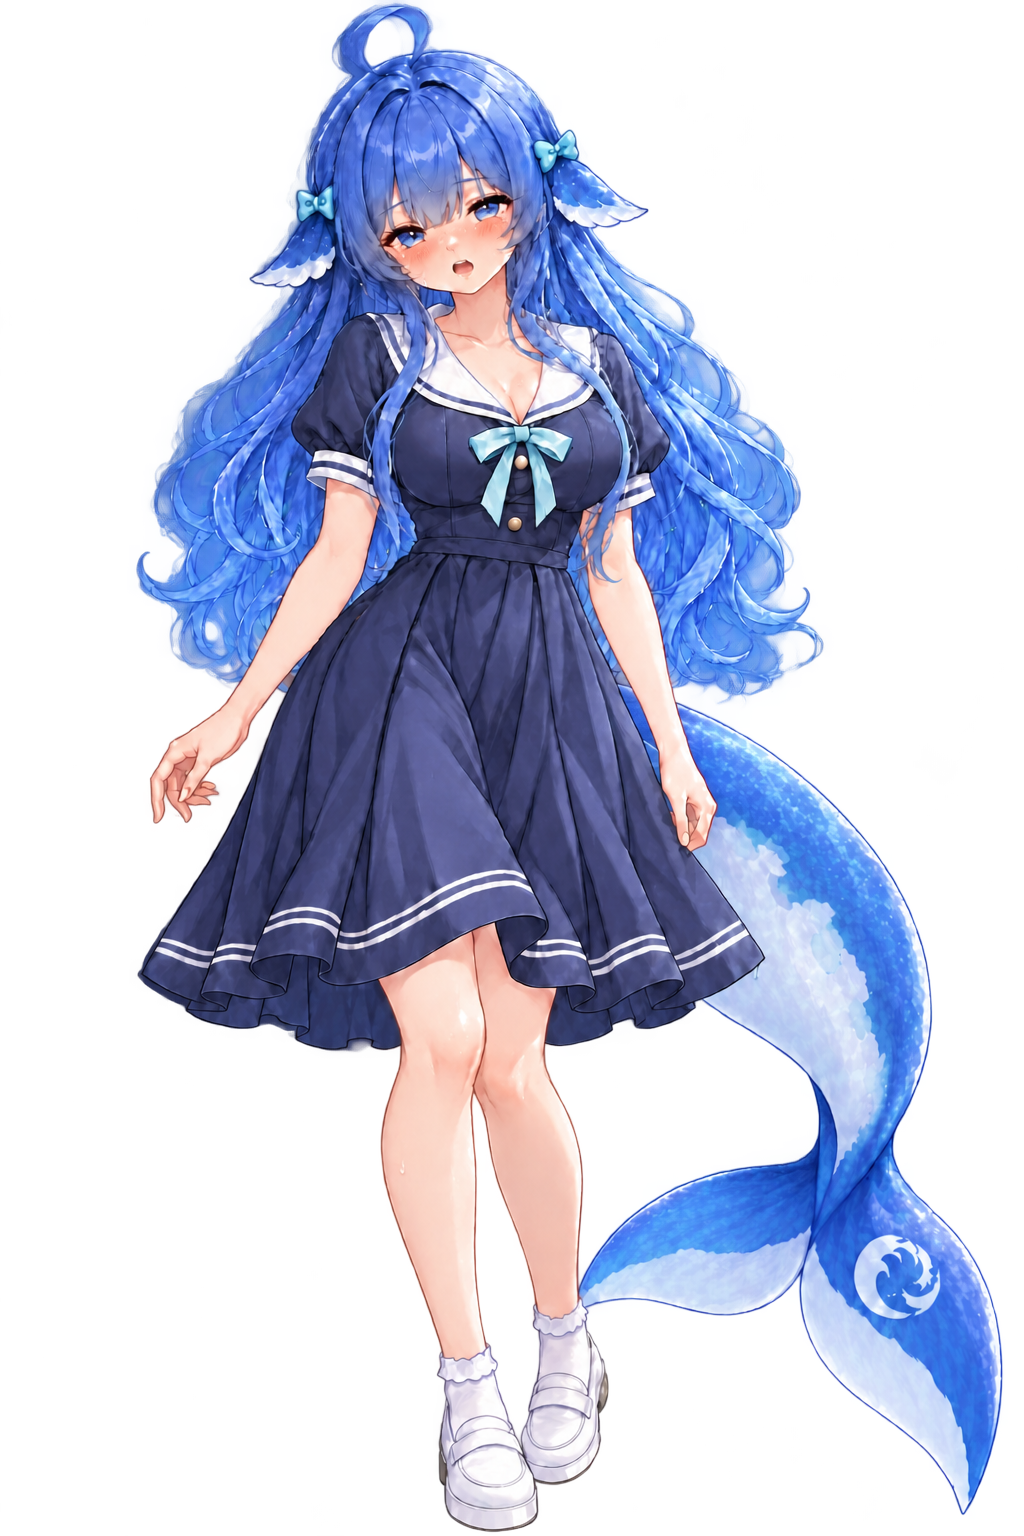
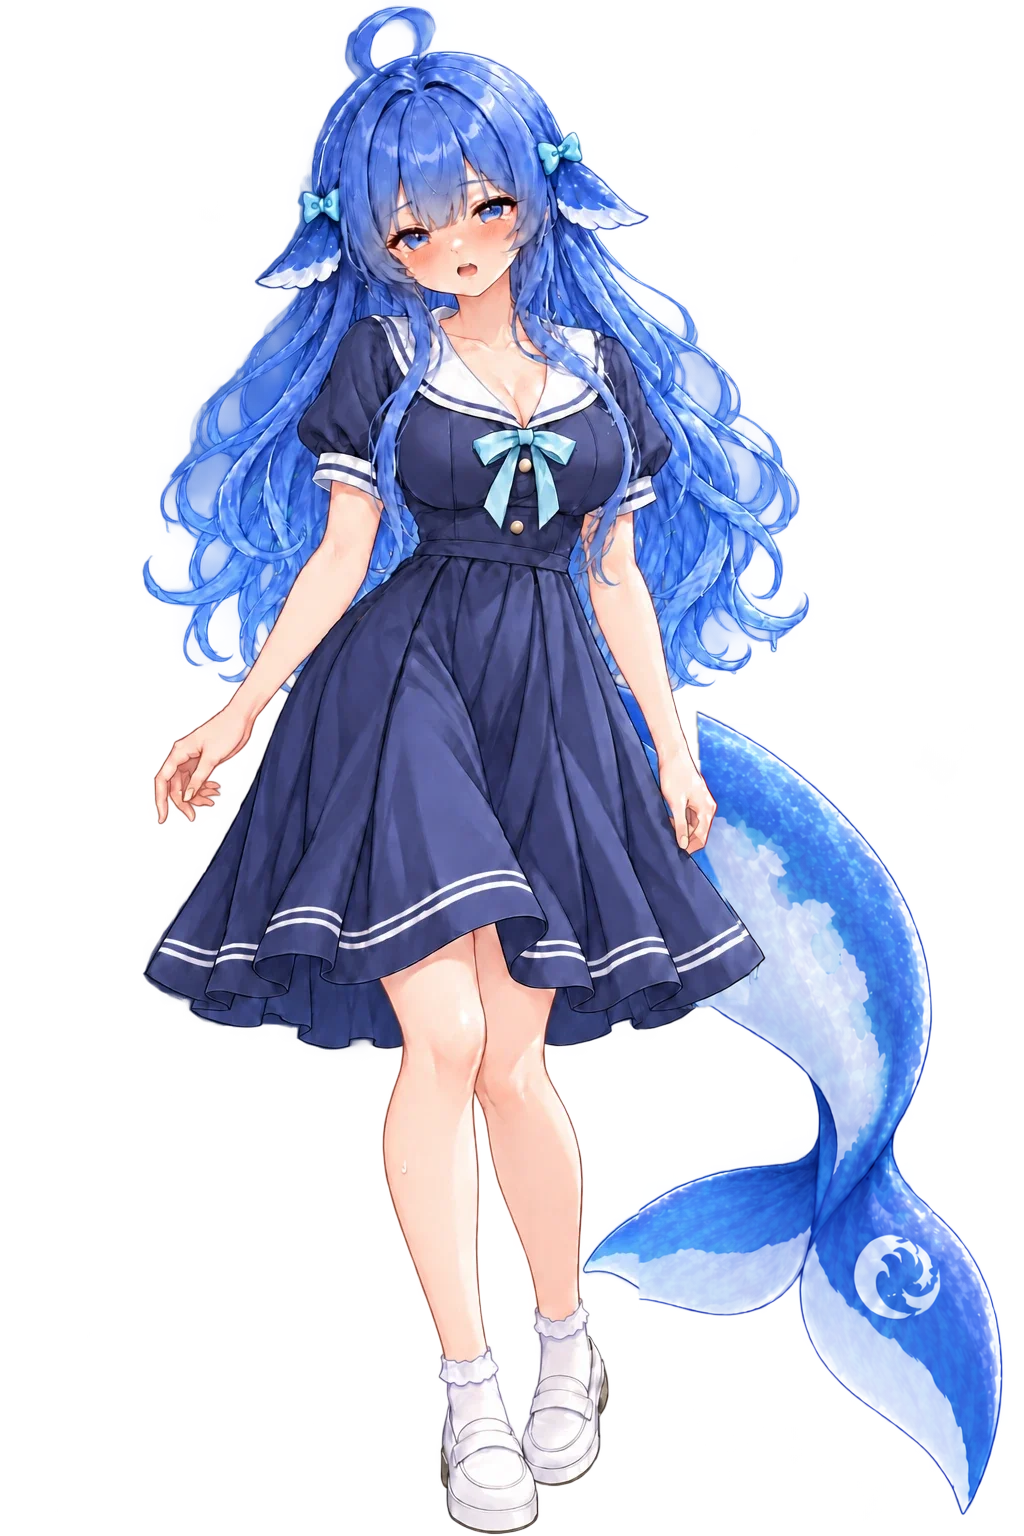
art: L11 只换尾巴，头发人物保留用户原稿

diff --git a/docs/collab/work-ledger/playtest-ledger-20261018.md b/docs/collab/work-ledger/playtest-ledger-20261018.md
@@ -76,3 +76,4 @@
 ## 音乐切换节奏（10-18 13:44）
 - 用户：「不要出现一首歌放几秒就被切」。按台词时长（配音时长或字数×0.18s+1.2s）估算每段同曲连续时长，把过短的 8 段并入前后：第二话开头直接起 E1；M2 下潜延续到第一段深海结束（原 21 秒就切 E2）；深海中间插的 E7 并入 E2；第七话开头直接起 M1；第八话主题/E5E6 交替统一为主题；第十一话末 T4 延续 E5；第十四话开头直接起 E5/E6；第十五话附近主题中间插的 M1 并入主题。停奏段不动。明细在 game.js musicPacing。
 - 仍保留的 45–60 秒段：开场 E7、c2m4 T3、第三话末 E7 日记、E4 夕阳等待、晚饭 E5、浅滩夜 T4、终章两段——都是一整场戏，未改。
+- 13:56 返工：sunburst 版头发不干净（用户）。改为以用户原 L11 为底，仅在 y≥700、x≥600 且非皮肤/裙子的区域合成新尾巴，头发与人物逐像素保留原稿（fix5/L11_tailonly.png）。
